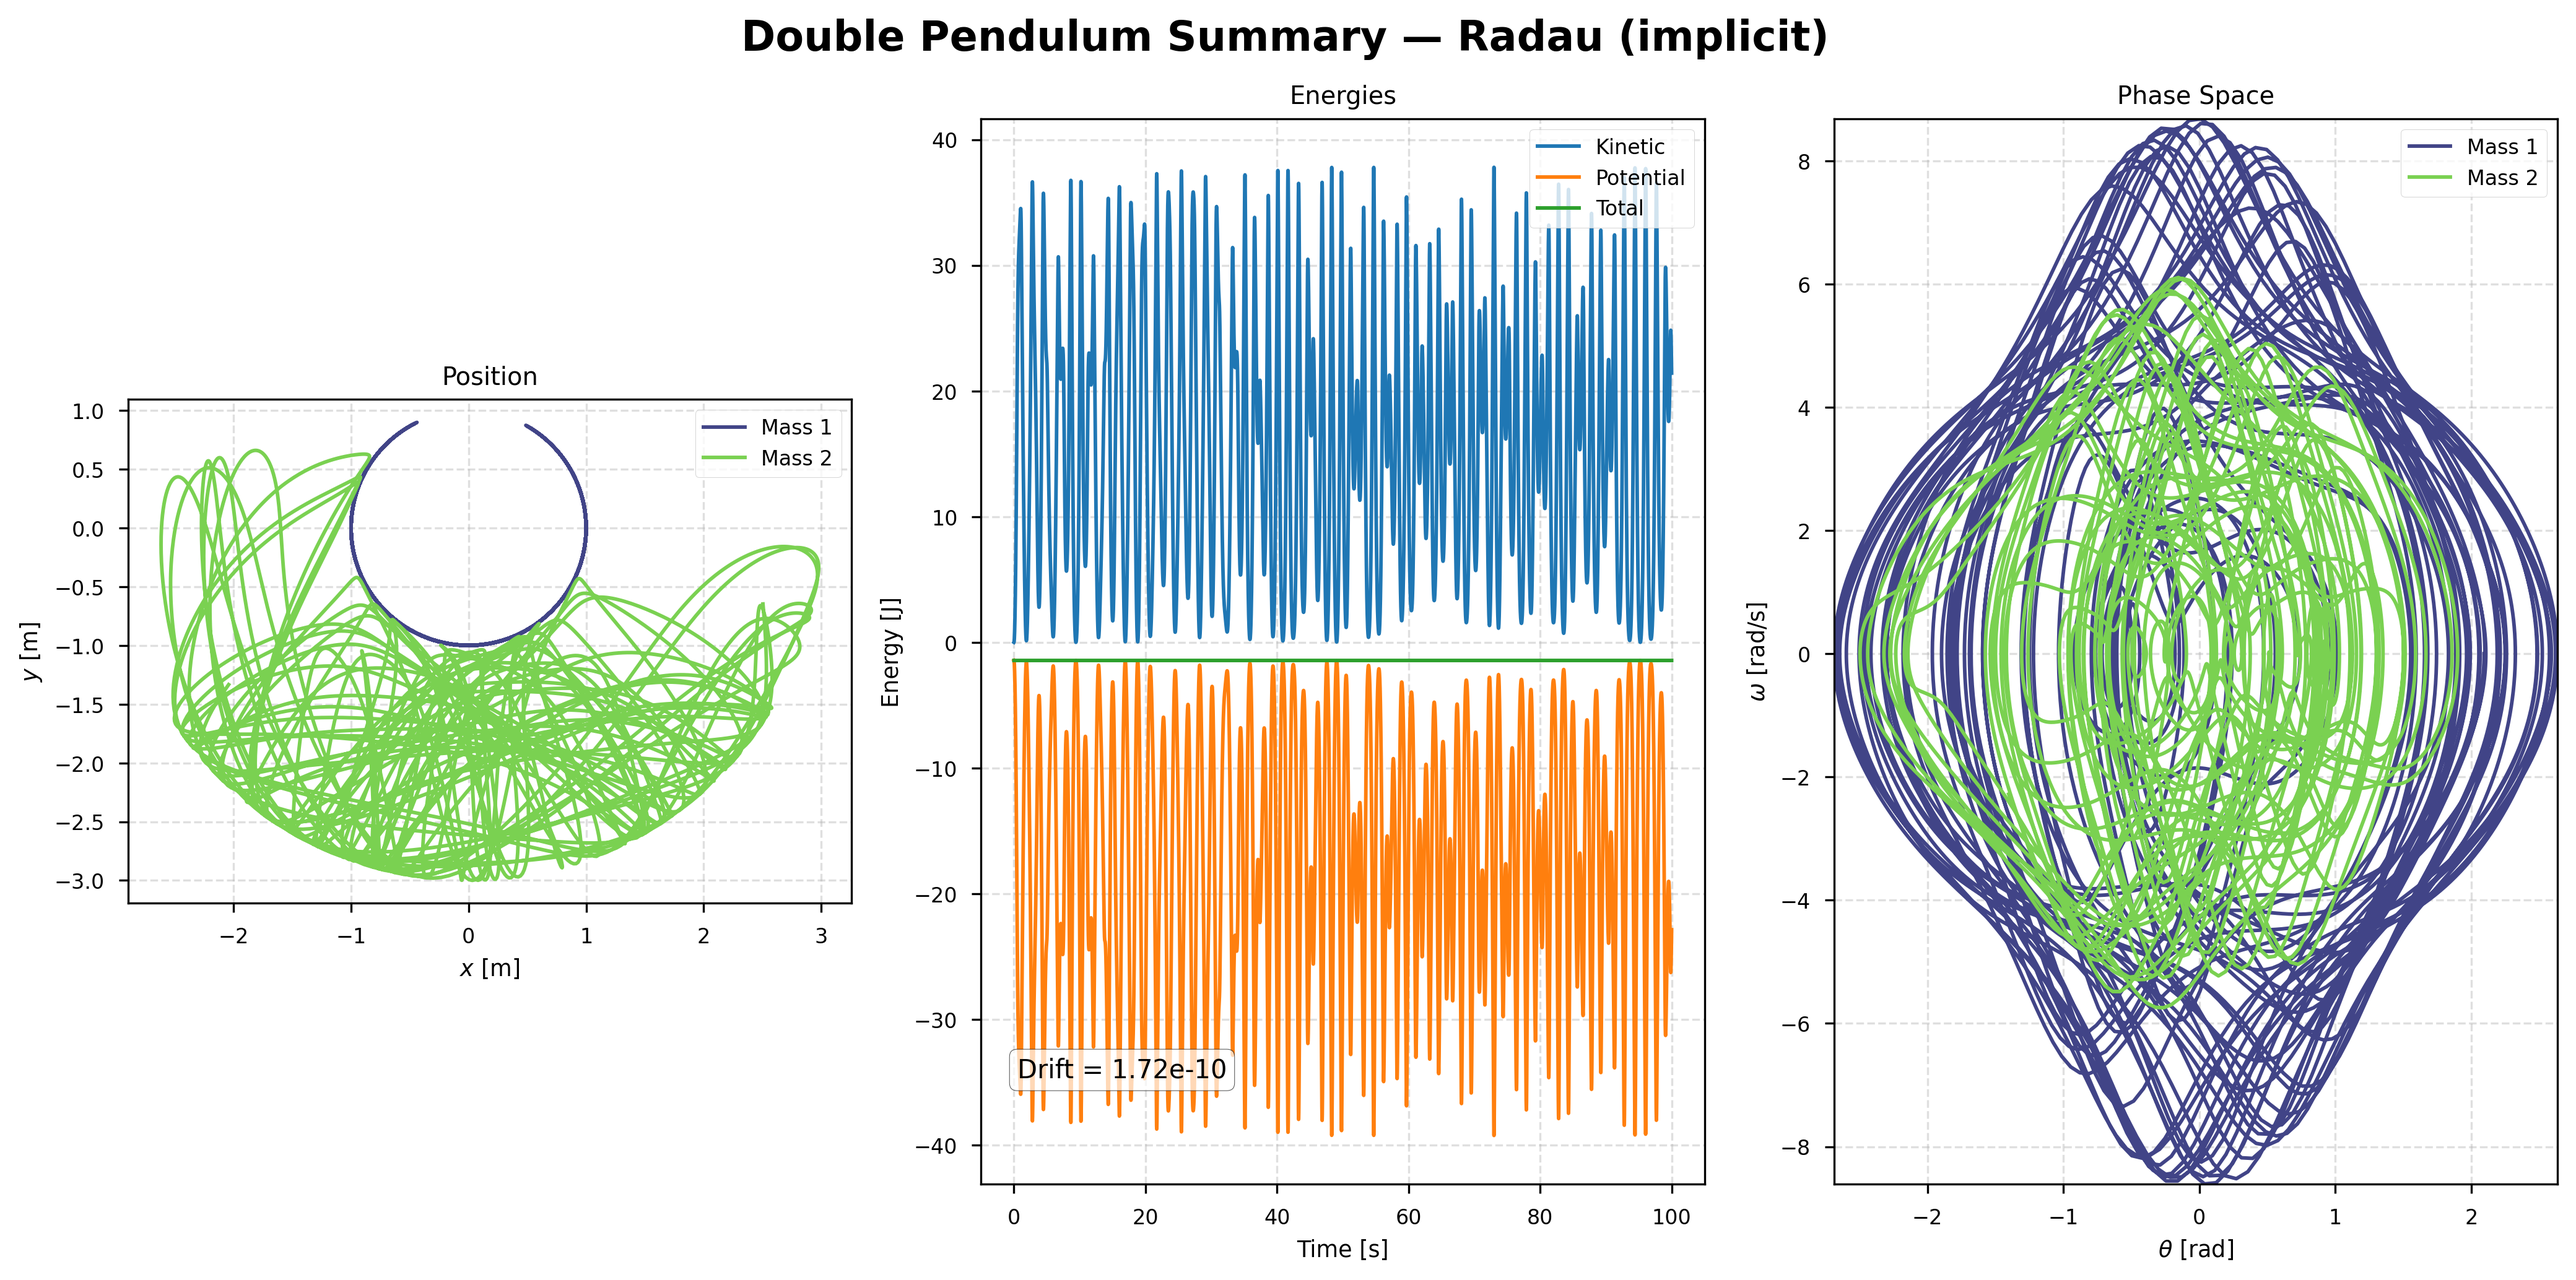
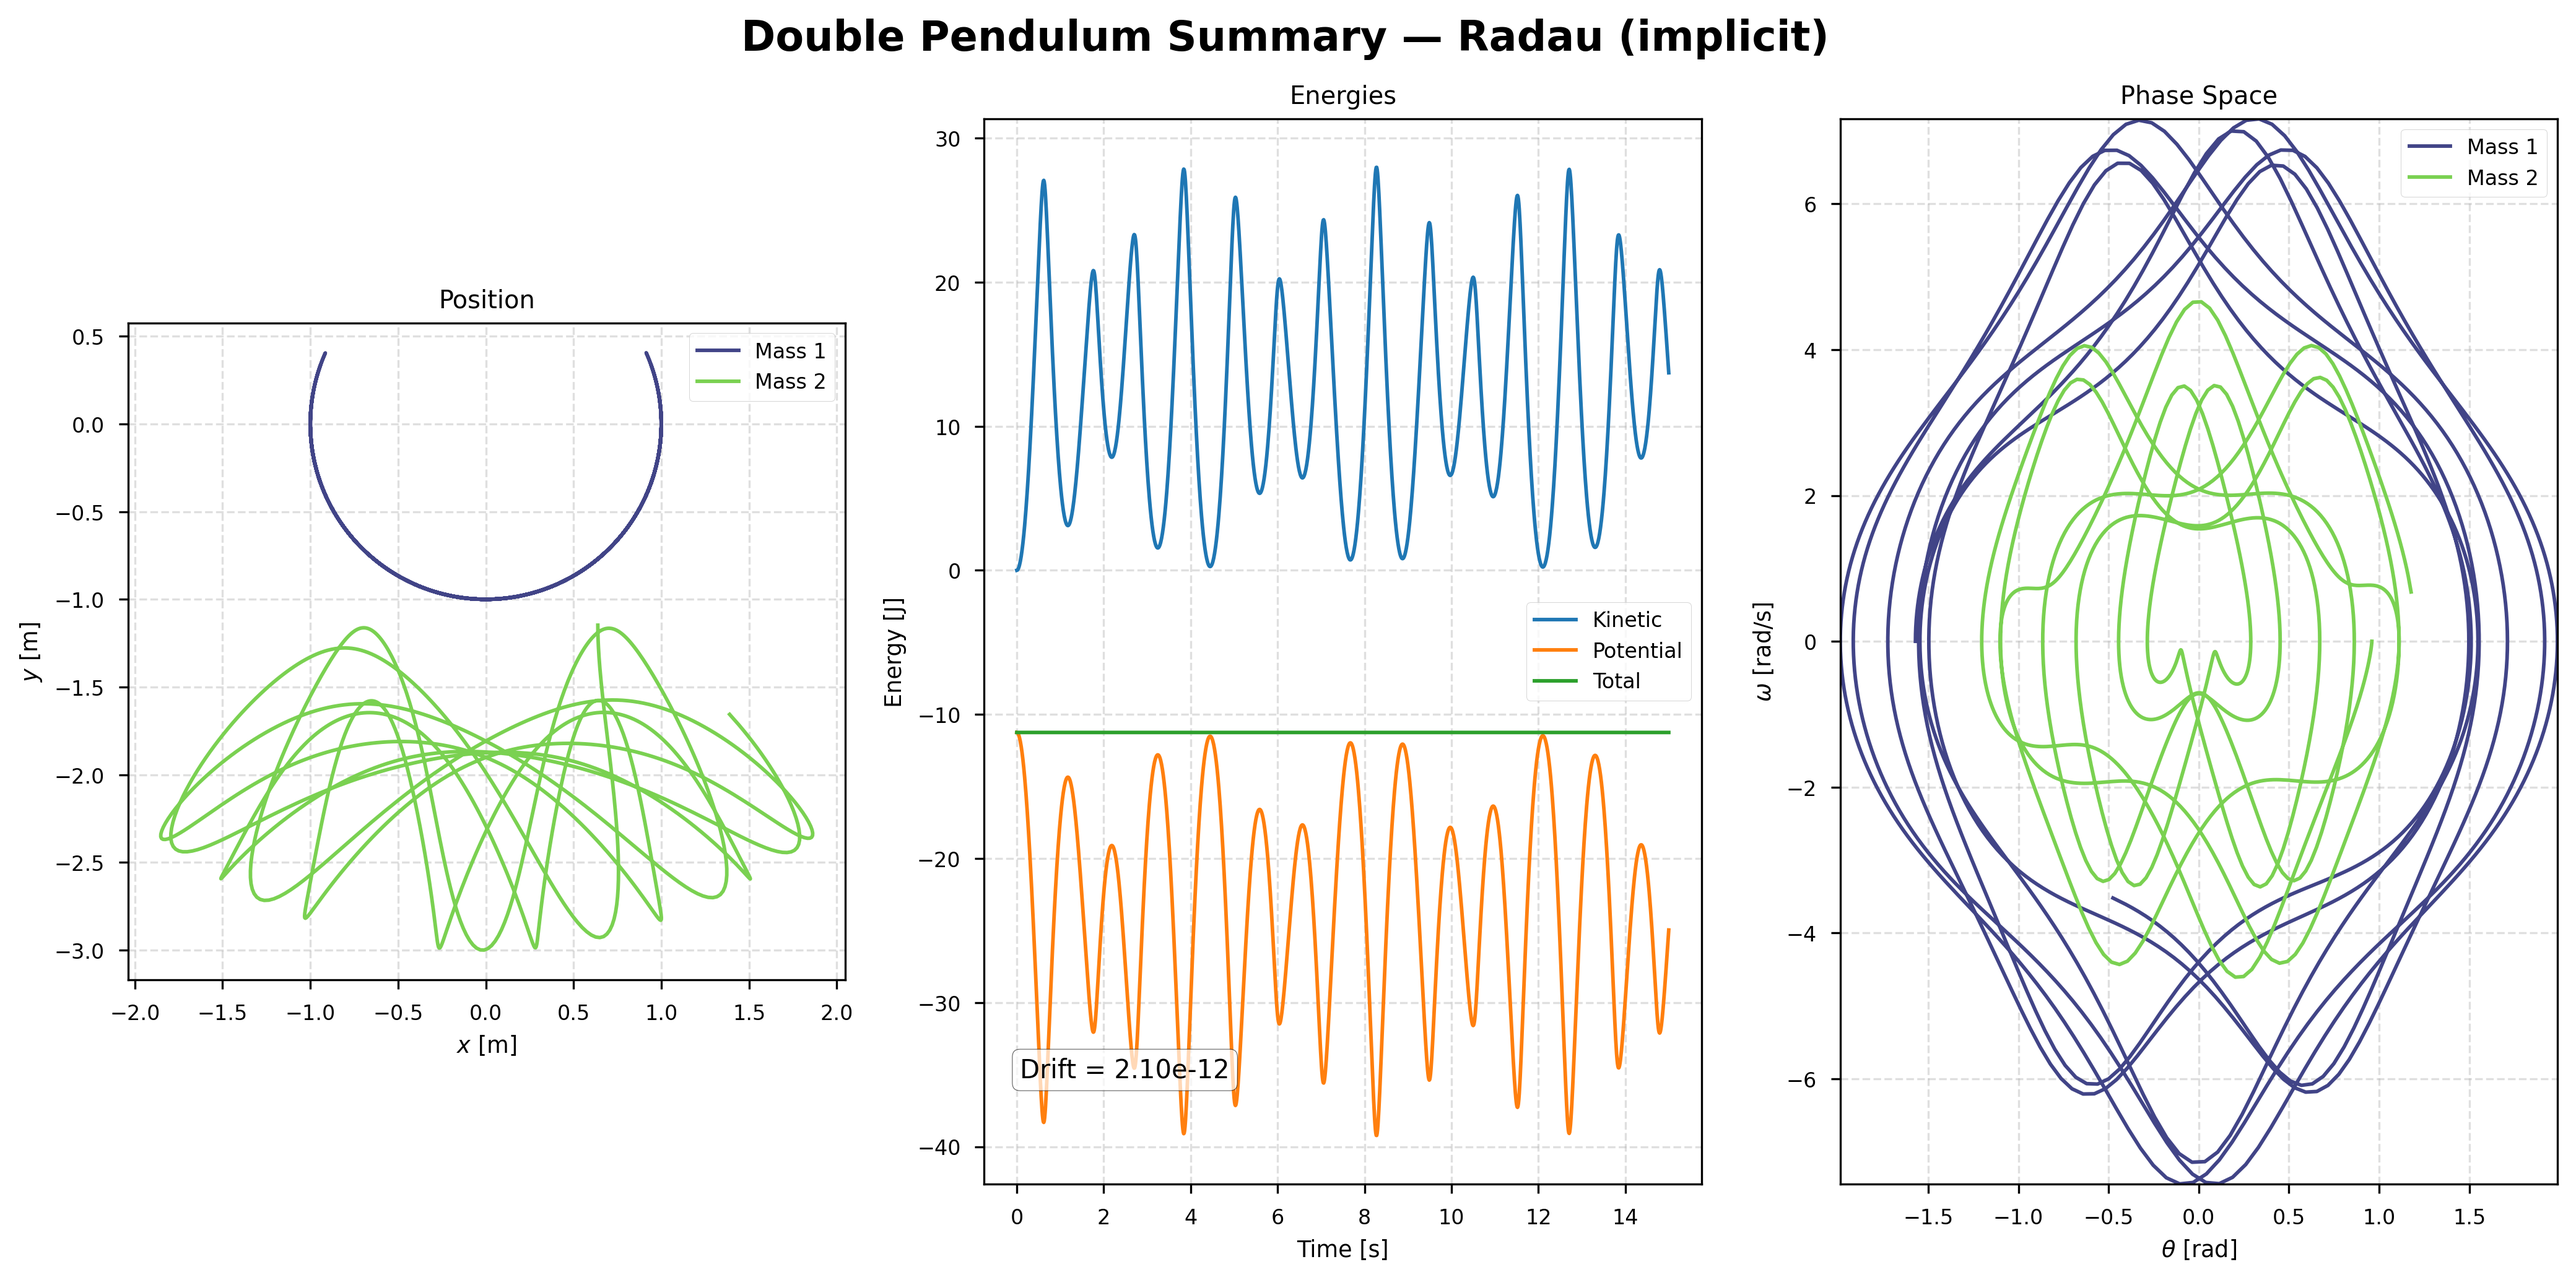
Readme.md and store some graphics

diff --git a/oscillatory_motion/special_oscillation/double_pendulum/errors_graphics.py b/oscillatory_motion/special_oscillation/double_pendulum/errors_graphics.py
@@ -439,7 +439,7 @@ def kde_phase_space_subplots(results_dict: Dict) -> plt.Figure:
 ##
 # -------------------------- Compute each instance -----------------------
 ##
-def compute(dt: Sequence[float], time: int = 150, flag: bool = False,) -> Dict:
+def compute(dt: Sequence[float], time: int = 150, flag: bool = True,) -> Dict:
     """
     Compute energy drift and runtime for several integration methods.
 
@@ -522,6 +522,7 @@ if __name__ == "__main__":
     fig_phase1 = kde_phase_space_subplots(results_dict=results)
     
     # 2. Load Initial Condition Data
+    """
     try:
         theta1_s, theta2_s, grid_s = upload_data("compute_intial_angles.npz")
         
@@ -534,17 +535,17 @@ if __name__ == "__main__":
     except FileNotFoundError as e:
         print(e)
         print("Skipping heatmaps. Run compute_data.py to generate data.")
-    
+    """
     if stored:
         directory = os.getcwd()
         route = os.path.join(directory, "figures")
         os.makedirs(route, exist_ok=True)
 
-        fig_conv.savefig(os.path.join(route, "convergence.png"), dpi = 300, bbox_inches = "tight")
-        fig_drift_method.savefig(os.path.join(route, "drift_energy_method.png"), dpi = 300, bbox_inches = "tight")
-        fig_drift_dt.savefig(os.path.join(route, "drift_energy_dt.png"), dpi = 300, bbox_inches = "tight")
-        fig_phase1.savefig(os.path.join(route, "phase_density1.png"), dpi = 300, bbox_inches = "tight")
-        fig_time.savefig(os.path.join(route, "runtime.png"), dpi = 300, bbox_inches = "tight")
-        fig_stab.savefig(os.path.join(route, "stability.png"), dpi = 300, bbox_inches = "tight")
-        fig_init.savefig(os.path.join(route, "initial_condition.png"), dpi = 300, bbox_inches = "tight")
-        fig_heat.savefig(os.path.join(route, "heatmap.png"), dpi = 300, bbox_inches = "tight")
+        fig_conv.savefig(os.path.join(route, "convergence_linearized.png"), dpi = 300, bbox_inches = "tight")
+        fig_drift_method.savefig(os.path.join(route, "drift_energy_method_linearized.png"), dpi = 300, bbox_inches = "tight")
+        fig_drift_dt.savefig(os.path.join(route, "drift_energy_dt_linearized.png"), dpi = 300, bbox_inches = "tight")
+        fig_phase1.savefig(os.path.join(route, "phase_density1_linearized.png"), dpi = 300, bbox_inches = "tight")
+        fig_time.savefig(os.path.join(route, "runtime_linearized.png"), dpi = 300, bbox_inches = "tight")
+        fig_stab.savefig(os.path.join(route, "stability_linearized.png"), dpi = 300, bbox_inches = "tight")
+        #fig_init.savefig(os.path.join(route, "initial_condition.png"), dpi = 300, bbox_inches = "tight")
+        #fig_heat.savefig(os.path.join(route, "heatmap.png"), dpi = 300, bbox_inches = "tight")

diff --git a/oscillatory_motion/special_oscillation/double_pendulum/compute_data.py b/oscillatory_motion/special_oscillation/double_pendulum/compute_data.py
@@ -3,7 +3,7 @@ import os
 from typing import Sequence, Dict, Any
 from double_pendulum import DoublePendulumSimulator
 
-def compute_initial_angles(params, theta1: Sequence[float], theta2: Sequence[float], linearized: bool = False, directory: str = os.getcwd(), filename: str = "compute_initial_angles.npz") -> Dict[str, Any]:
+def compute_initial_angles(params, theta1: Sequence[float], theta2: Sequence[float], linearized: bool = False, directory: str = os.getcwd()) -> Dict[str, Any]:
     """
     Compute energy drift for varying initial conditions.
 
@@ -100,8 +100,52 @@ def compute_initial_angles(params, theta1: Sequence[float], theta2: Sequence[flo
             grid[th1][th2] = run_simulation((th1, th2))
 
     print("\nSaving data...")
-    route = os.path.join(directory, filename)
+    
     # Save as numpy compressed archive
-    np.savez(route, theta1_scan=theta1_scan, theta2_scan=theta2_scan, grid=grid)
+    if linearized:
+        filename = "compute_initial_angle_linearized.npz"
+        route = os.path.join(directory, filename)
+        np.savez(route, theta1_scan=theta1_scan, theta2_scan=theta2_scan, grid=grid)
+
+    else:
+        filename = "compute_initial_angle.npz"
+        route = os.path.join(directory, filename)
+        np.savez(route, theta1_scan=theta1_scan, theta2_scan=theta2_scan, grid=grid)
     
     return {"theta1_scan": theta1_scan, "theta2_scan": theta2_scan, "grid": grid}
+
+from dataclasses import dataclass
+
+@dataclass
+class Params:
+    """Physical parameters and initial conditions for the pendulum."""
+    g: float = 9.81  # m/s^2
+    m1: float = 1.0  # kg
+    m2: float = 1.0  # kg
+    L1: float = 1.0  # m
+    L2: float = 2.0  # m
+
+    theta1_0: float = np.deg2rad(0)
+    theta2_0: float = np.deg2rad(0)
+    omega1_0: float = 0.0
+    omega2_0: float = 0.0
+
+    t_max: float = 30.0  # s
+    dt: float = 1e-1  # s
+    rtol: float = 1e-10
+    atol: float = 1e-12
+
+    def __post_init__(self) -> None:
+        if self.g <= 0.0:
+            raise ValueError("Gravity must be positive.")
+        if self.m1 <= 0.0 or self.m2 <= 0.0:
+            raise ValueError("Masses must be positive.")
+        if self.L1 <= 0.0 or self.L2 <= 0.0:
+            raise ValueError("Lengths must be positive.")
+
+params = Params()
+theta1 = np.linspace(-np.pi, np.pi, 180)
+theta2 = np.linspace(-np.pi, np.pi, 180)
+
+linearized = compute_initial_angles(params= params, theta1=theta1, theta2=theta2, linearized=True)
+non_linearized = compute_initial_angles(params = params, theta1=theta1, theta2=theta2, linearized=False)

diff --git a/oscillatory_motion/special_oscillation/double_pendulum/main_graphics.py b/oscillatory_motion/special_oscillation/double_pendulum/main_graphics.py
@@ -53,13 +53,13 @@ class Params:
     L1: float = 1.0  # m
     L2: float = 2.0  # m
 
-    theta1_0: float = np.deg2rad(120)
+    theta1_0: float = np.deg2rad(-90)
     theta2_0: float = np.deg2rad(55)
 
     omega1_0: float = 0.0
     omega2_0: float = 0.0
 
-    t_max: float = 100.0  # s
+    t_max: float = 15.0  # s
     dt: float = 0.01  # s
 
     rtol = 1e-10
@@ -410,7 +410,7 @@ def compute(store: bool = False)-> plt.Figure:
 
         # --- Save animation ---
         writer = PillowWriter(fps=30)
-        anim1.save(os.path.join(fig_dir, "double_pendulum_anim.gif"), writer=writer)
+        anim1.save(os.path.join(fig_dir, "double_pendulum_anim_chaos.gif"), writer=writer)
 
     return anim1, fig1, fig3
 

diff --git a/oscillatory_motion/special_oscillation/double_pendulum/readme.md b/oscillatory_motion/special_oscillation/double_pendulum/readme.md
@@ -4,7 +4,9 @@ The double pendulum is a classic example of nonlinear, chaotic system. Despite i
 
 - **Lagrangian formulation:**
   
- As always, identifying the system's degrees of freedom (the angular coordinates $\theta_1$ and $\theta_2$), we derive the equations of motion using the Euler-Lagrange equations.
+ As always, identifying the system's degrees of freedom (the angular coordinates $\theta_1$ and $\theta_2$), we derive the equations of motion using the Euler-Lagrangeequations.
+
+![Regime_summary](../figures/Regime_summary.png)
 
 The results is a set of coupled, nonlinear, second-order differential equations that cannot be solved analytically in general.
 
@@ -35,8 +37,10 @@ $$
 \ddot{\theta}_2 \approx \frac{2g}{l}\left(\theta_1 - \theta_2\right)
 $$
 
+<img src="./figures/spring.gif" width="500">
+
 ## How do we write it?
-Firstly, we have to calculate the kinetic energy to get the mass matrix
+Firstly, we have to calculate the kinetic energy to get the mass matrix - a matrix that captures the inertia of the system and mathematically describes how mass is distributed across the moving parts:
 
 $$
 T = \tfrac12\ \dot{\boldsymbol{\theta}}^{\mathsf{T}} \mathbf{M}(\theta_1,\theta_2)\ \dot{\boldsymbol{\theta}}
@@ -103,10 +107,10 @@ $$
 Note: do not worry if you do not get it at first. It took me a few weeks understand this nomenclature and why it works. As a comment, the standard manipulator equation is:
 
 $$
-Q(\theta) \ddot{\theta} + C(\theta, dot{\theta}) \dot{theta} + G(\theta)
+M(\theta) \ddot{\theta} + C(\theta, dot{\theta}) \dot{theta} + G(\theta) = F
 $$
 
-quite use in robotics and multibody dynamics.
+It is usually used in robotics and multibody dynamics.
 
 ## Numerical methods
 
@@ -119,18 +123,54 @@ With a great touch we will see how this methods performs:
 - DOP853
 - BDF
 - How to use it?
-# Errors and analysis
+## Errors and analysis
 Now we have introduced the numerical methods, we can talk about: which one is better than other one, or which one require the least runtime... We discover that and much more than this through the graphics.
 
-- Runtime
+*Note*: The graphics have been compute with this parameter: t_max = 150, ratol = 1e-10, atol = 1e-12, $m_1 = m_2 = 1.0$, $L_1 = 1.0$, $L_2 = 2.0$
+
+- **Runtime:**
+
+![Runtime](../figures/runtime.png)
+
 - Drift energy
-    - Through different dt
-    - Through different method
+
+    - Through different dt:
+
+    ![drift_energy_dt](../figures/drift_energy_dt.png)
+
+    - Through different method:
+
+    ![drift_energy_method](../figures/drift_energy_method.png)
+
+![drift_energy_colormap](../figures/heatmap.png)
 
 - Convergence and stability
 
+![convergence](../figures/convergence.png)
+
+![stability](../figures/stability.png)
+
 If you want to discover other concerns that we have not been discussed here, you can check the code and change a few lines.
 
-# The fractal revolution
+## When physics becomes art
+
+In the previous section, you have seen which numerical methods perform better than others: which ones are slower, which ones struggle to convergence. For this reason, I chose the Radau (implicit) method. It is not only robust and stable, but it also offers a good runtime. 
+
+This section may look a bit a magic treak. When I say that physics becomes art, I am talking about **Fractals**.
+A fractal? In the double-pendulum equations? Yes. Fractals appears in many extraordinary contexts: natural patterns (like flowers), chaotic motion, and many others places that you would not expect. By playing with some variables, and tweaking the inial conditions, you can obtain something like this:
+
+![Fractal](../figures/Fractal_pendulum.png) 
+
+This picture (it feels weird to call it graphics), represents the time the double-pendulum takes to perfomr a flip (i.e, when either, $\theta_1 = \pi$ or $\theta_2 = \pi$) as a function of different initial condition.
+
+Talking about fractals, we cannot skip the idea of **fractal dimensionality**. What does that mean? How can we calculate it? Well, this both question and much more, will be answered soon in a dedicated fractal repository. 
+In the meantime, I fervently recommend you some fractal galleries on the Internet - some are awesome, others less so, let us say, but all of them are fascinating in their own way.
+However, if you really enjoy mathematics and physics, take a look at the bibliography and let yourself be suprised how beautiful this world can be.
 
 # Bibliography
+
+https://dn760009.eu.archive.org/0/items/GOLDSTEINClassicalMechanics/GOLDSTEIN%20%28Classical%20Mechanics%29_text.pdf
+
+https://pythonnumericalmethods.studentorg.berkeley.edu/notebooks/chapter22.01-ODE-Initial-Value-Problem-Statement.html
+
+https://pythonnumericalmethods.studentorg.berkeley.edu/notebooks/chapter10.05-Debugging.html
